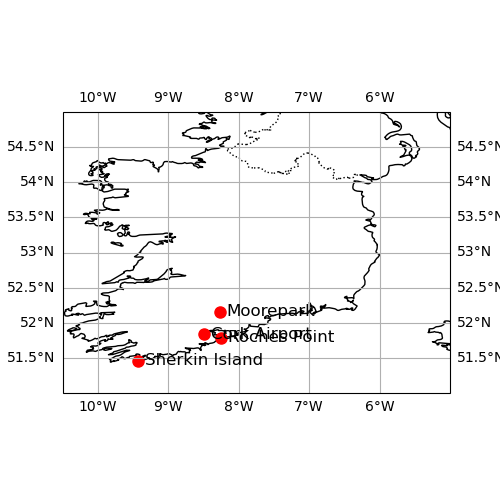
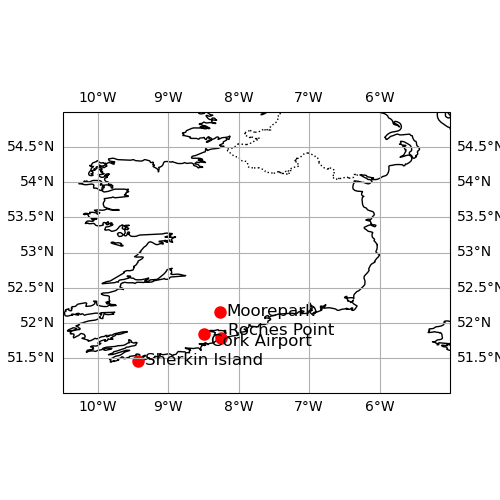
Update map to prevent overlap of the station names

Changed region(s): [[0.42, 0.63, 0.66, 0.69]]

diff --git a/scripts/plot_weather_stations.py b/scripts/plot_weather_stations.py
@@ -20,7 +20,12 @@ def plot_weather_stations():
 
     for station, (lat, lon) in weather_stations.items():
         ax.plot(lon, lat, marker='o', color='red', markersize=8, transform=ccrs.PlateCarree())
-        ax.text(lon + 0.1, lat, station, transform=ccrs.PlateCarree(), fontsize=12, verticalalignment='center')
+        if station == 'Cork Airport':
+            ax.text(lon + 0.1, lat - 0.1, station, transform=ccrs.PlateCarree(), fontsize=12, verticalalignment='center')
+        elif station == 'Roches Point':
+            ax.text(lon + 0.1, lat + 0.1, station, transform=ccrs.PlateCarree(), fontsize=12, verticalalignment='center')
+        else:
+            ax.text(lon + 0.1, lat, station, transform=ccrs.PlateCarree(), fontsize=12, verticalalignment='center')
 
     # Set the extent of the map
     ax.set_extent([-10.5, -5, 51, 55], crs=ccrs.PlateCarree())
@@ -35,3 +40,4 @@ def plot_weather_stations():
 
 if __name__ == "__main__":
     plot_weather_stations()
+
